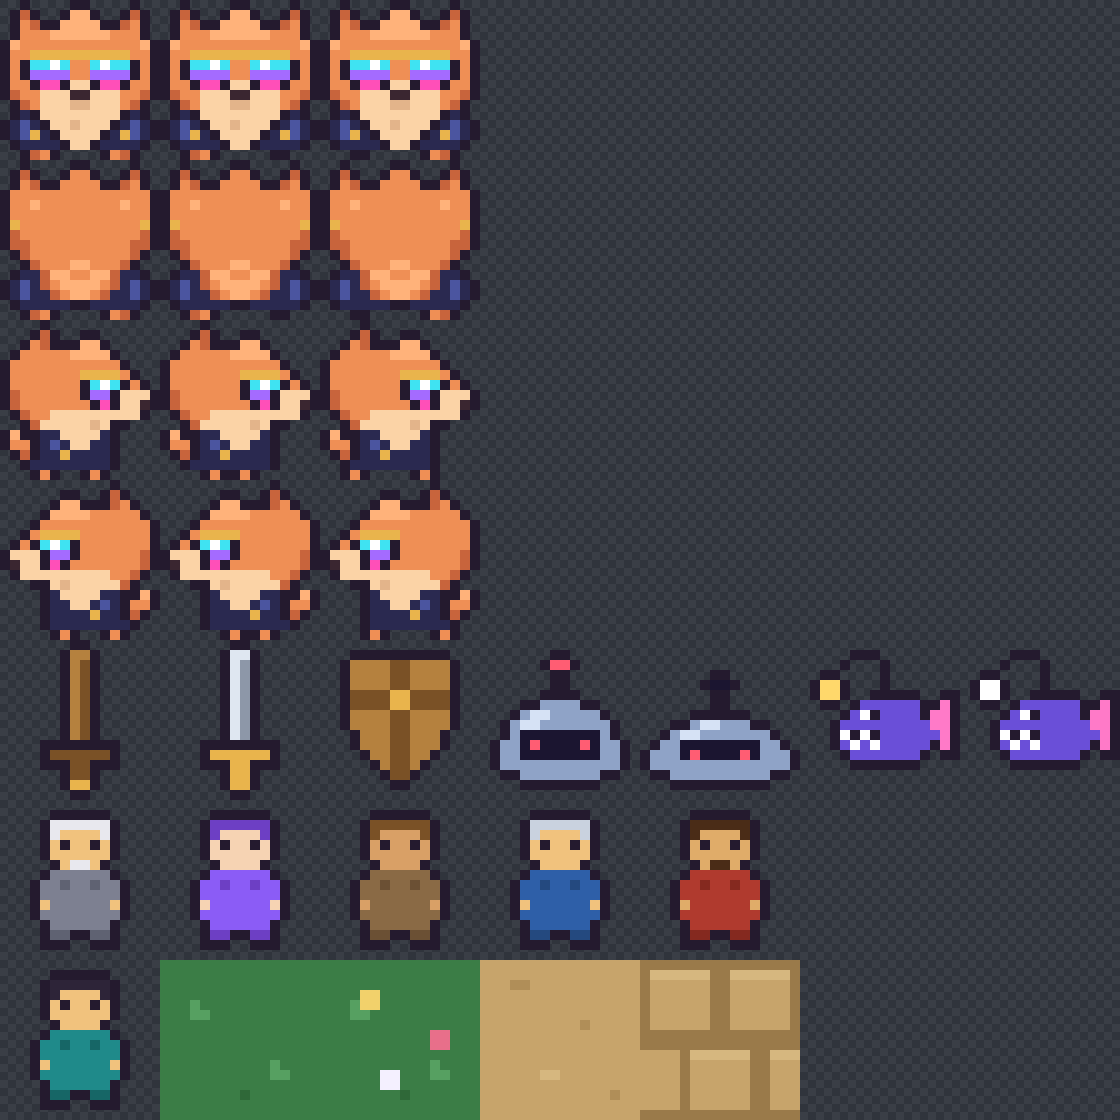
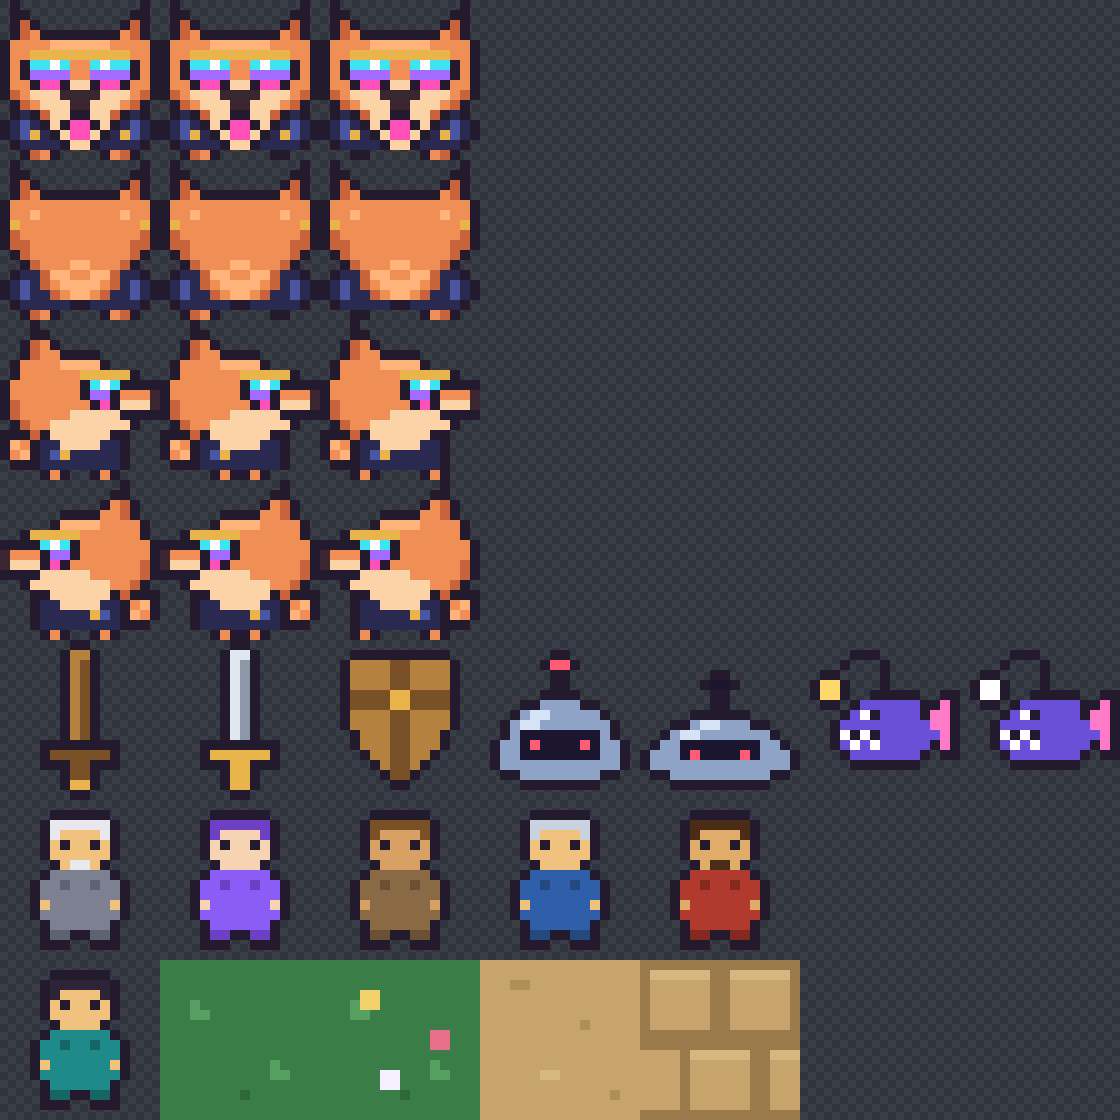
feat(art): make the pomeranian read as a dog from every side
Pointed upright ears, a blocky muzzle with a nose on the side views, and a
nose plus tongue on the front view. Sunglasses unchanged.

Changed region(s): [[0.0, 0.2812, 0.4375, 0.5938], [0.0, 0.0, 0.4375, 0.1875]]

diff --git a/app/src/game/sheets.ts b/app/src/game/sheets.ts
@@ -1,6 +1,6 @@
 // Generated by art/sprites.mjs; don't edit. Each URL carries a hash of the sheet's contents.
 export const SHEETS = {
-  dog: '/assets/dog.png?v=a3fa682dcb',
+  dog: '/assets/dog.png?v=8aebf4b091',
   items: '/assets/items.png?v=8b19d504e1',
   npcs: '/assets/npcs.png?v=b74c465442',
   tiles: '/assets/tiles.png?v=59af1e10f8',
